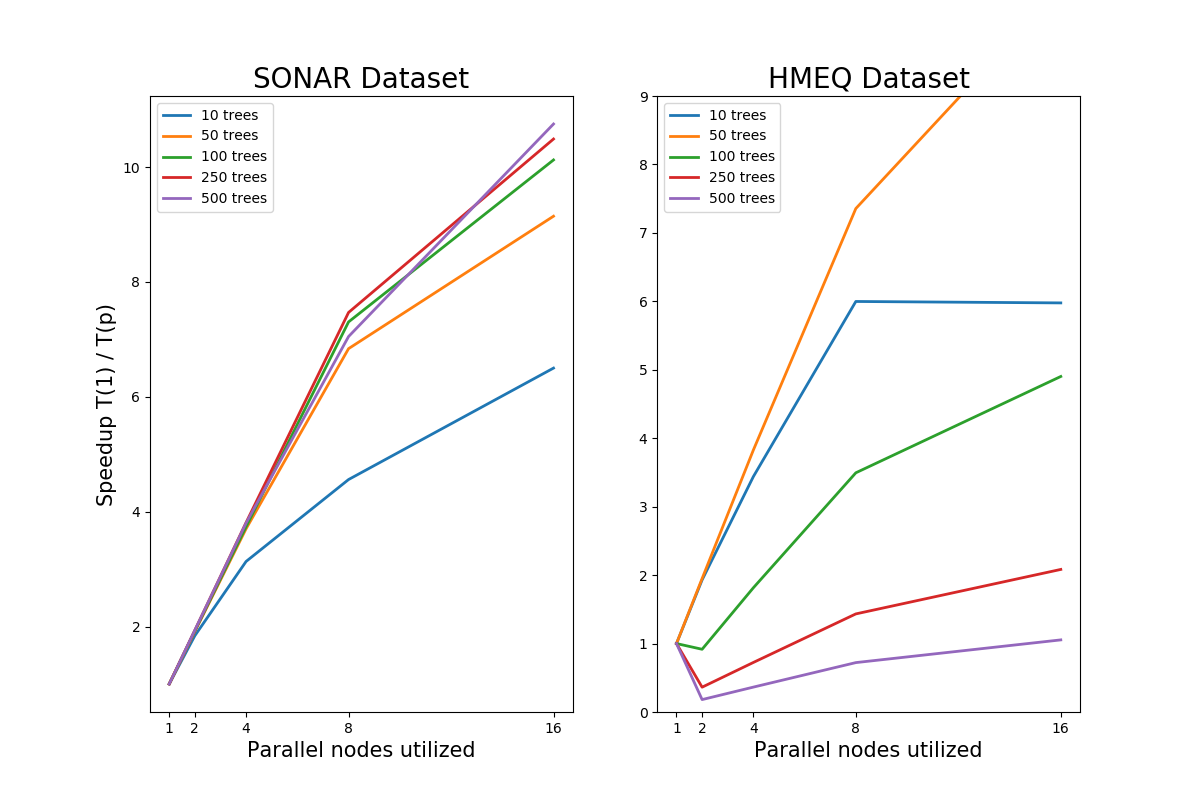
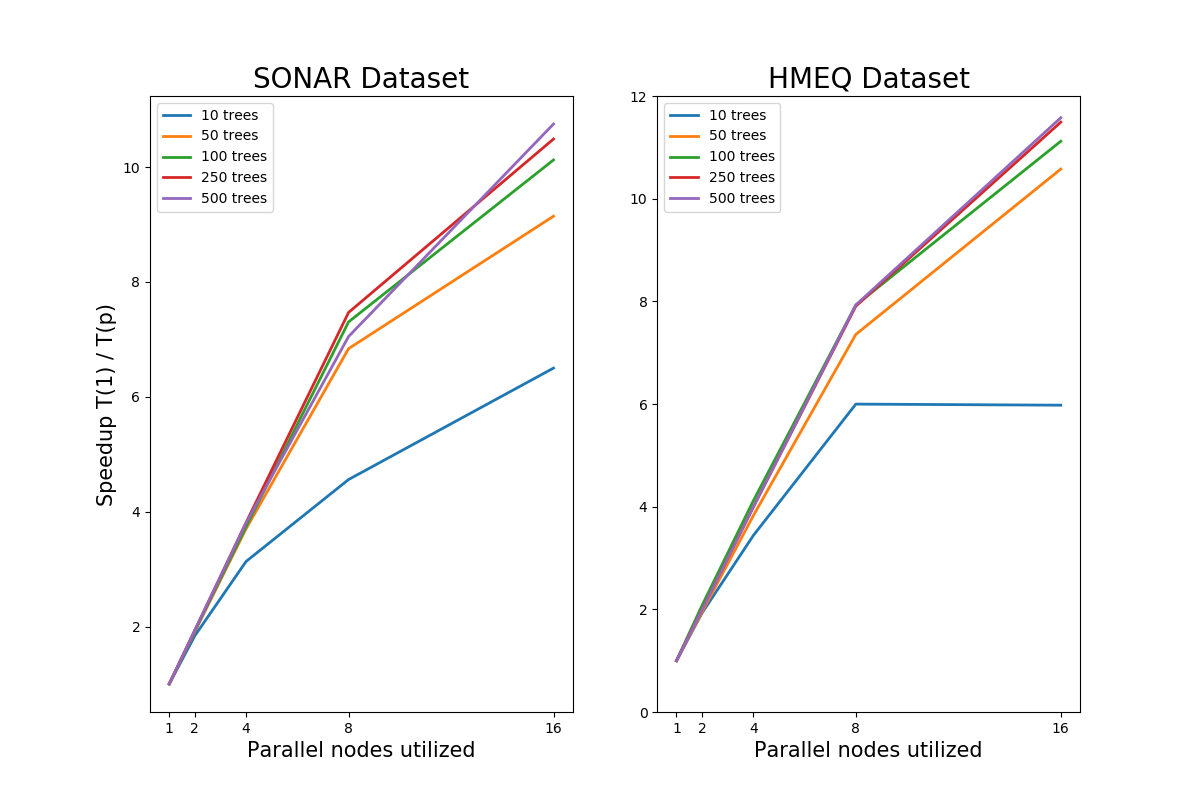
Update times

diff --git a/speedup/speedup_plot.py b/speedup/speedup_plot.py
@@ -5,20 +5,20 @@ import matplotlib.pyplot as plt
 
 # Record elapsed time in seconds as provided by time function
 # SONAR Dataset in node ascending order
-sonar_10 = [1.222, 0.664, 0.390, 0.268, 0.188]
-sonar_50 = [6.264, 3.273, 1.692, 0.916, 0.685]
-sonar_100 = [12.716, 6.613, 3.403, 1.741, 1.256]
-sonar_250 = [31.801, 16.438, 8.346, 4.258, 3.032]
-sonar_500 = [60*1+3.381, 32.732, 16.671, 8.991, 5.896]
+sonar_10 =   [1.222     , 0.664     , 0.390 , 0.268 , 0.188]
+sonar_50 =   [6.264     , 3.273     , 1.692 , 0.916 , 0.685]
+sonar_100 =  [12.716    , 6.613     , 3.403 , 1.741 , 1.256]
+sonar_250 =  [31.801    , 16.438    , 8.346 , 4.258 , 3.032]
+sonar_500 =  [60*1+3.381, 32.732    , 16.671, 8.991 , 5.896]
 sonar_1000 = [60*2+6.793, 60*1+5.716, 33.195, 16.728, 11.738]
 
 # Record elapsed time in seconds as provided by time function
 # HMEQ Dataset in node ascending order
-hmeq_10 = [60*2+20.621, 60*1+12.871, 40.891, 23.445, 23.527]
-hmeq_50 = [60*11+16.809, 60*5+47.126, 60*2+56.865, 60*1+32.011, 60*1+3.991]
-hmeq_100 = [60*11+16.809, 60*12+18.531, 60*6+12.955, 60*3+13.664, 60*2+18.063]
-hmeq_250 = [60*11+16.809, 60*31+6.893, 60*15+35.199, 60*7+52.247, 60*5+24.929]
-hmeq_500 = [60*11+16.809, 60*62+11.926, 60*31+1.601, 60*15+37.796, 60*10+42.419]
+hmeq_10 =  [60*2+20.621  , 60*1+12.871 , 40.891      , 23.445      , 23.527]
+hmeq_50 =  [60*11+16.809 , 60*5+47.126 , 60*2+56.865 , 60*1+32.011 , 60*1+3.991]
+hmeq_100 = [60*25+35.081 , 60*12+18.531, 60*6+12.955 , 60*3+13.664 , 60*2+18.063]
+hmeq_250 = [60*62+13.698 , 60*31+6.893 , 60*15+35.199, 60*7+52.247 , 60*5+24.929]
+hmeq_500 = [60*123+56.576, 60*62+11.926, 60*31+1.601 , 60*15+37.796, 60*10+42.419]
 # parallel_hmeq_1000 = [60*11+16.809, ?, ?, ?, ?]
 
 # Gather
@@ -35,7 +35,7 @@ nodes = [1, 2, 4, 8, 16]
 
 # Plot Speedup Chart
 fig, ax = plt.subplots(1, 2, figsize=(12,8))
-plt.ylim(0,9)
+plt.ylim(0, 12)
 
 # Plot SONAR Speed Up
 pos = 0
